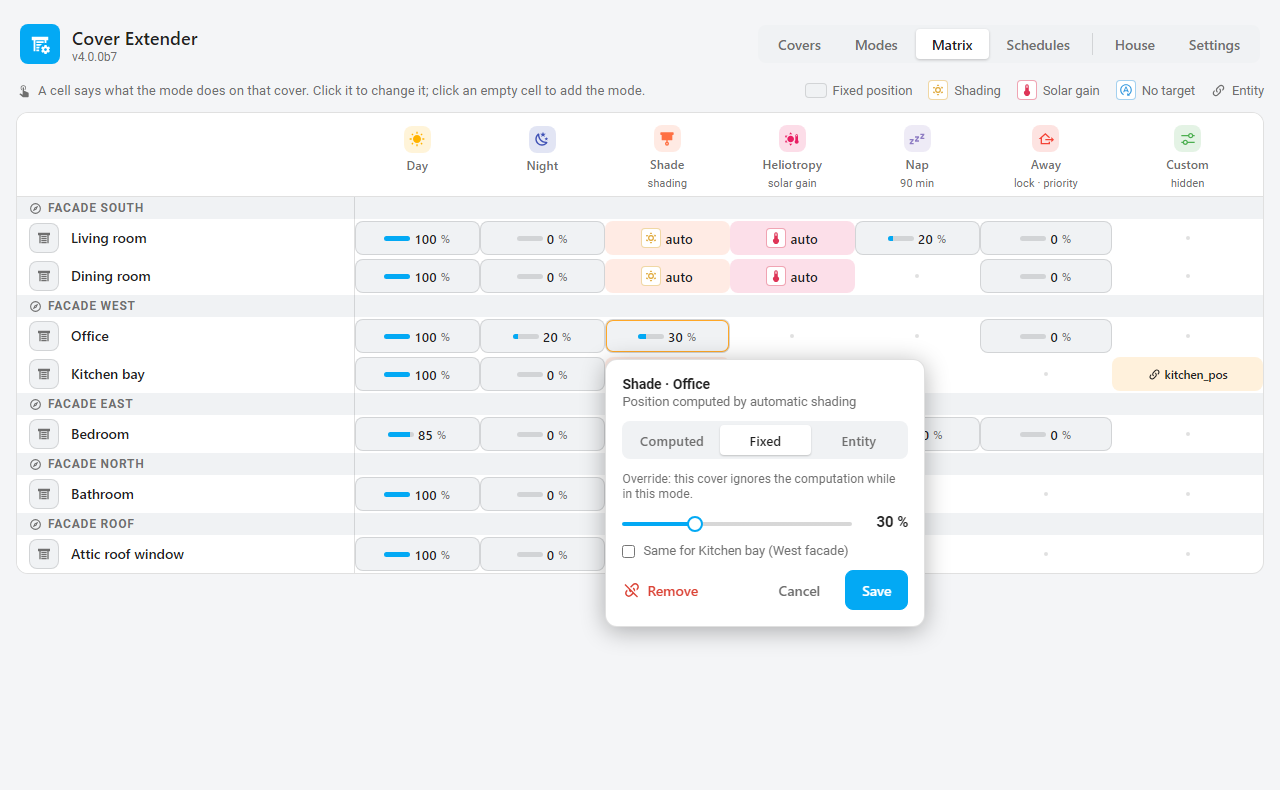
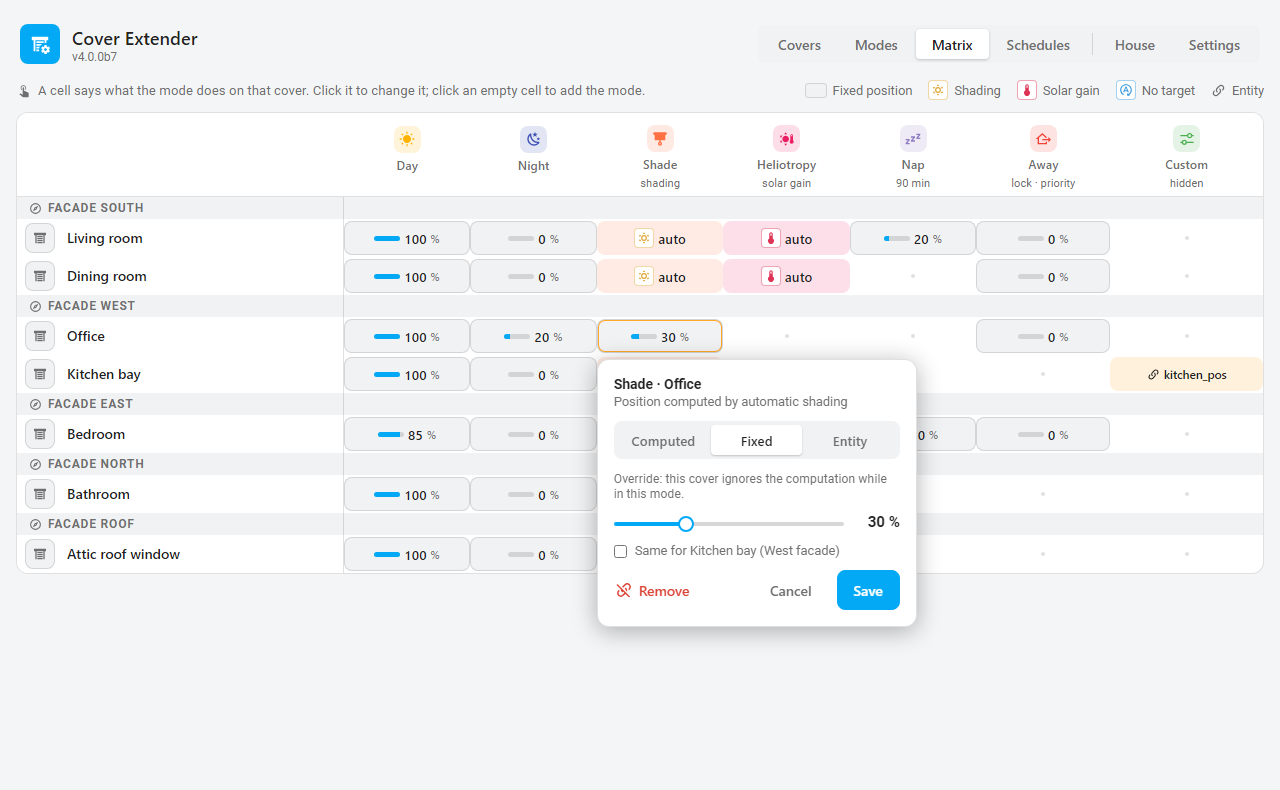
Matrix: back to the width of the other pages
Taking the whole width moved the header and the tabs on this tab only.
The page keeps its 1400px like every other one; the column of cover names
is narrower instead, so a 15-mode matrix fits it. A wider one scrolls
inside its box, never the page.

diff --git a/custom_components/cover_extender/frontend/cover-extender-admin.js b/custom_components/cover_extender/frontend/cover-extender-admin.js
@@ -1225,7 +1225,6 @@ const STYLE = `
   }
   * { box-sizing: border-box; }
   .wrap { max-width: 1400px; margin: 0 auto; padding: var(--fp-s4) var(--fp-s4) calc(var(--fp-s5) * 2); }
-  .wrap.full { max-width: none; }
 
   header.bar {
     display: flex; align-items: center; gap: var(--fp-s3); flex-wrap: wrap;
@@ -1309,7 +1308,7 @@ const STYLE = `
   .mh .tags { min-height: 13px; max-width: 92px; font-size: var(--f-10-5); font-weight: 400; line-height: 1.25;
               text-align: center; color: var(--secondary-text-color); }
   .rowh { display: flex; align-items: center; gap: var(--fp-s3);
-          padding: var(--fp-s1) var(--fp-s4) var(--fp-s1) var(--fp-s3); min-width: 180px; }
+          padding: var(--fp-s1) var(--fp-s3) var(--fp-s1) var(--fp-s2); min-width: 140px; }
   .rowh img, .rowh .pic { width: var(--fp-pill-h); height: var(--fp-pill-h);
                           border-radius: var(--fp-ctl-r); object-fit: cover; flex: none; }
   .rowh .pic { background: var(--secondary-background-color); border: 1px solid var(--divider-color);
@@ -2404,8 +2403,6 @@ class CoverExtenderPanel extends HTMLElement {
     if (!this.shadowRoot.firstChild) this._renderShell();
     const wrap = this.shadowRoot.querySelector(".wrap");
     wrap.replaceChildren();
-    // The matrix grows with the number of modes: it takes the whole width.
-    wrap.classList.toggle("full", this._tab === "matrice");
     this._syncSaveBar = null;
     this._mxFit = null;
     // The popover is mounted on the shadow root, so clearing .wrap does not
